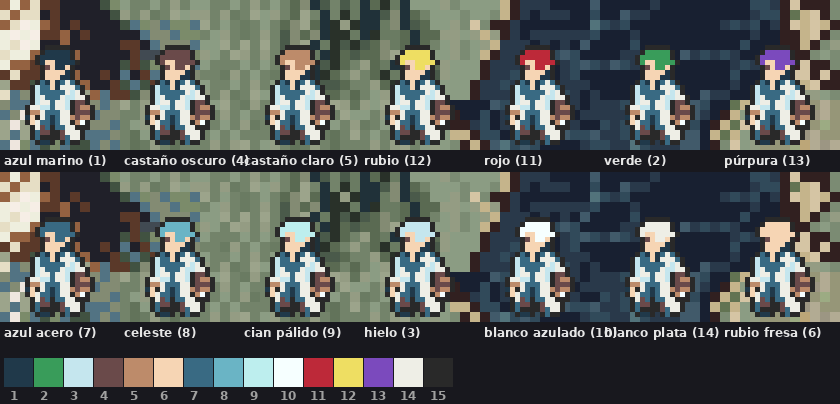
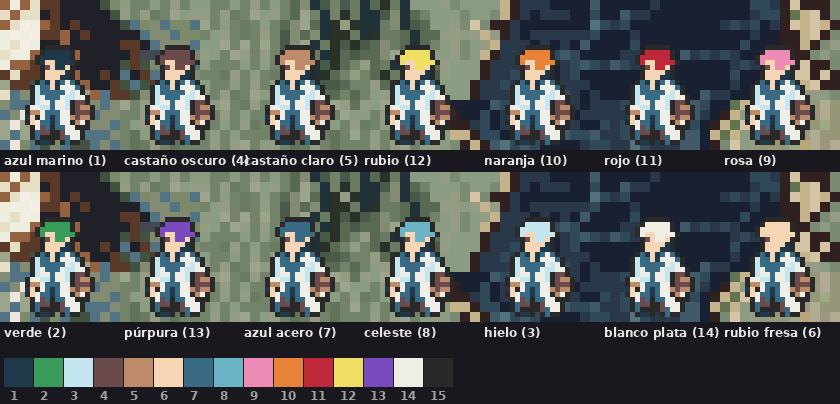
Arte: paleta aliada sin cianes repetidos, suma rosa y naranja
Claude-Session: https://claude.ai/code/session_01C4QAM3GiXvR91Lm3uwjAmD

diff --git a/fisuras-de-elyria/rev1/arte/assets/paletas_bandos/pelo_aliado.py b/fisuras-de-elyria/rev1/arte/assets/paletas_bandos/pelo_aliado.py
@@ -5,11 +5,13 @@ p=list(B['Protagonistas (blanco y cian)'])
 p[2]=gba('3c9c5c')   # verde
 # 11 rojo se mantiene
 # 12 rubio se mantiene
+p[9]=gba('f088b8')   # rosa (repetía al 3)
+p[10]=gba('e8843c')  # naranja (repetía al 14)
 p[13]=gba('7c48c0')  # púrpura (reemplaza gris)
-OP=[(1,'azul marino'),(4,'castaño oscuro'),(5,'castaño claro'),(12,'rubio'),(11,'rojo'),
-    (2,'verde'),(13,'púrpura'),(7,'azul acero'),(8,'celeste'),(9,'cian pálido'),
-    (3,'hielo'),(10,'blanco azulado'),(14,'blanco plata'),(6,'rubio fresa')]
-k=np.array(Image.open('/home/claude/azul/kairon_quieto_suroeste_azul_32x32.png'))
+OP=[(1,'azul marino'),(4,'castaño oscuro'),(5,'castaño claro'),(12,'rubio'),(10,'naranja'),
+    (11,'rojo'),(9,'rosa'),(2,'verde'),(13,'púrpura'),(7,'azul acero'),
+    (8,'celeste'),(3,'hielo'),(14,'blanco plata'),(6,'rubio fresa')]
+k=np.array(Image.open('/home/claude/azul/kairon_quieto_suroeste_azul_32x32.png')); k[k==10]=14
 def con(slot):
     a=k.copy()
     for r in range(8,13):
